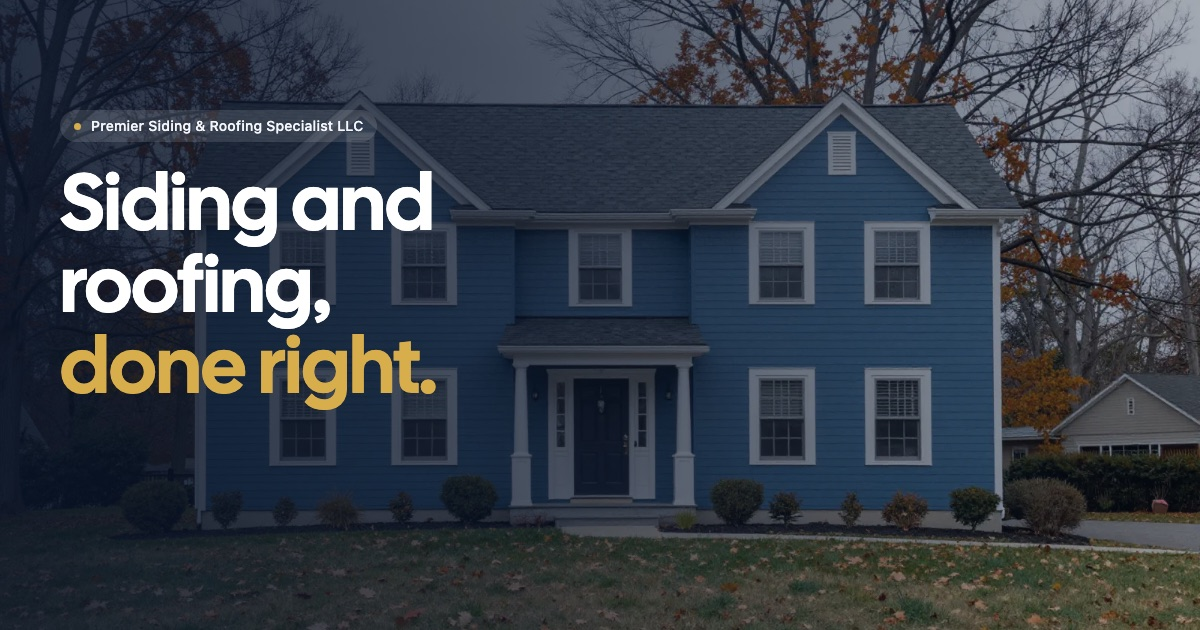
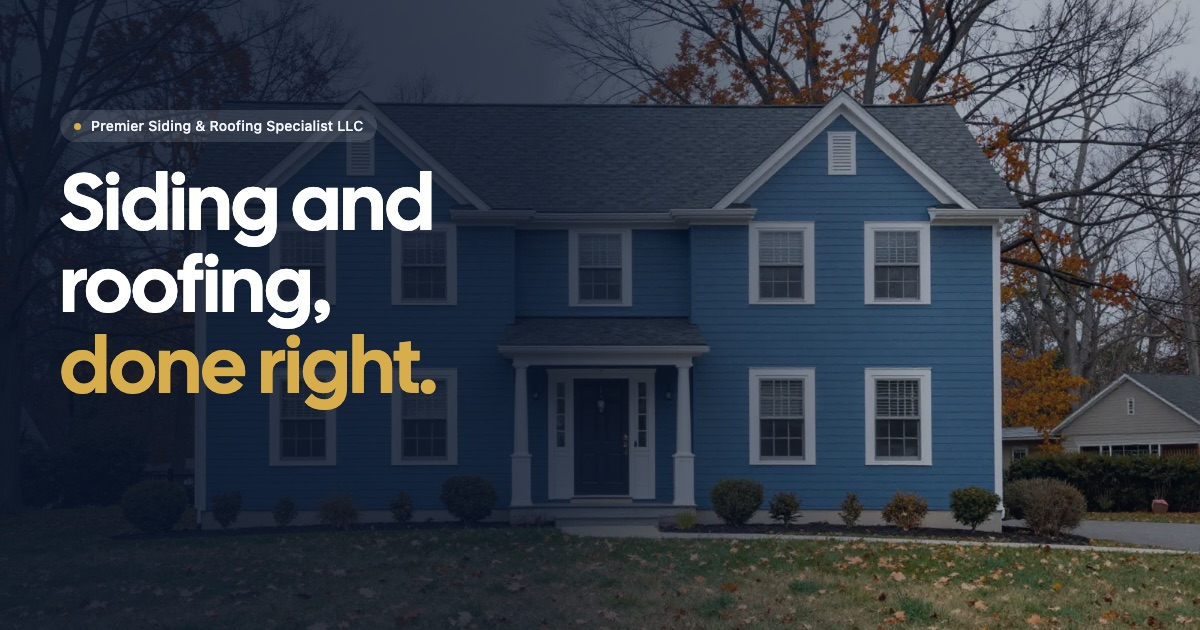
Apply Impeccable sweep and finish-review fixes
Darker hero overlay, sharper photos at 2x, call fallback under the form,
copy-message fallback, honest meta copy, non-seasonal form eyebrow, motto
as the closing heading, landscape hero padding, no-JS float hidden.

Claude-Session: https://claude.ai/code/session_01RV8zrAr6iA1stZByG4rHJ4

diff --git a/index.html b/index.html
@@ -4,11 +4,11 @@
 <meta charset="utf-8">
 <meta name="viewport" content="width=device-width, initial-scale=1, viewport-fit=cover">
 <title>Premier Siding &amp; Roofing Specialist LLC · Siding and roofing, done right</title>
-<meta name="description" content="Siding and roofing from Premier Siding &amp; Roofing Specialist LLC. Our goal is your satisfaction. Call or text (732) 768-5891 for a quote.">
+<meta name="description" content="Siding and roofing from Premier Siding &amp; Roofing Specialist LLC. Our goal is your satisfaction. Call (732) 768-5891 for a quote.">
 <meta name="theme-color" content="#f4f6fb">
 <meta property="og:type" content="website">
 <meta property="og:title" content="Premier Siding &amp; Roofing Specialist LLC · Siding and roofing, done right.">
-<meta property="og:description" content="Our goal is your satisfaction. Call or text (732) 768-5891 for a quote.">
+<meta property="og:description" content="Our goal is your satisfaction. Call (732) 768-5891 for a quote.">
 <meta property="og:url" content="https://10elizabethbell.github.io/premierSidingRoofing/">
 <meta property="og:image" content="https://10elizabethbell.github.io/premierSidingRoofing/og.jpg">
 <meta property="og:image:width" content="1200">
@@ -91,7 +91,7 @@ section{padding:64px 0}
 .brand{display:flex;align-items:center;gap:9px;min-height:44px;text-decoration:none;line-height:1}
 .brand .mark{width:30px;height:30px;flex:none;color:var(--gold-ink)}
 .brand b{display:block;font:400 21px/1 var(--display);letter-spacing:.01em}
-.brand small{display:block;font:600 10px/1.25 var(--text);letter-spacing:.08em;text-transform:uppercase;color:var(--soft);margin-top:4px}
+.brand small{display:block;font:600 11px/1.25 var(--text);letter-spacing:.06em;text-transform:uppercase;color:var(--soft);margin-top:4px}
 .brand small span{display:block}
 .tel{display:inline-flex;align-items:center;gap:7px;min-height:44px;padding:0 2px;font:400 17px/1 var(--display);text-decoration:none;white-space:nowrap}
 .tel svg{width:17px;height:17px;flex:none;color:var(--gold-ink)}
@@ -100,7 +100,7 @@ section{padding:64px 0}
 .hero{padding:0;position:relative;background-color:var(--deep);color:var(--on-dark);overflow:hidden;isolation:isolate}
 .hero picture,.hero picture img{position:absolute;inset:0;width:100%;height:100%;z-index:-2}
 .hero picture img{object-fit:cover;object-position:62% 50%}
-.hero::after{content:"";position:absolute;inset:0;z-index:-1;background:linear-gradient(180deg,rgba(9,20,40,.78) 0%,rgba(9,20,40,.62) 45%,rgba(9,20,40,.86) 100%)}
+.hero::after{content:"";position:absolute;inset:0;z-index:-1;background:linear-gradient(180deg,rgba(9,20,40,.8) 0%,rgba(9,20,40,.74) 45%,rgba(9,20,40,.88) 100%)}
 .hero-copy{position:relative;display:grid;gap:20px;justify-items:start;padding-top:56px;padding-bottom:64px}
 .hero h1{color:#fff;font-size:clamp(42px,12vw,80px);line-height:1.02;max-width:11ch}
 /* H1 bounce-in (after lpmr.co.uk): each letter slides in from 50px right with a slight overshoot, 20ms apart */
@@ -124,7 +124,7 @@ section{padding:64px 0}
 .svc-card:focus-visible .arrow{background:var(--gold);color:var(--ink);outline:3px solid var(--gold);outline-offset:3px}
 .row{display:flex;align-items:center;justify-content:space-between;gap:14px;min-height:72px;padding:14px 16px 14px 22px;border-radius:20px;background:var(--card);color:var(--ink);text-decoration:none;font:400 clamp(18px,5vw,20px)/1.2 var(--display)}
 .row:hover,.row:focus-visible{outline:none;background:var(--card);box-shadow:none}
-.row .lbl{display:flex;align-items:center;gap:14px}
+.row .lbl{display:flex;align-items:center;gap:14px;text-wrap:pretty}
 .row .lbl svg{width:28px;height:28px;flex:none;color:#1877f2}
 .row:focus-visible .arrow{background:var(--gold);outline:3px solid var(--focus);outline-offset:3px}
 .rows{display:grid;gap:12px;margin-top:16px}
@@ -152,19 +152,22 @@ input[type=text]:focus,textarea:focus{outline:none;border-color:var(--focus)}
 .chips label{display:inline-flex;align-items:center;min-height:48px;padding:0 18px;border-radius:var(--pill);background:var(--field);border:2px solid transparent;font:16px/1 var(--text);color:var(--ink);cursor:pointer;margin:0;transition:border-color .15s,background-color .15s,color .15s}
 .chips input:focus-visible+label{border-color:var(--focus);outline:3px solid var(--focus);outline-offset:2px}
 .chips input:checked+label{background:var(--ink);color:#fff}
+#quoteForm:has(#f-what.bad) .chips label{border-color:rgba(179,38,30,.45)}
 .err{display:none;font-size:15px;color:var(--error)}
 .field.bad .err{display:block}
 .field.bad input[type=text],.field.bad textarea,.field.bad input[type=text]:focus,.field.bad textarea:focus{border-color:var(--error)}
 form .btn-primary{width:100%}
 form .btn-primary:focus-visible{outline:3px solid var(--focus);outline-offset:3px}
 .after{font-size:15px;color:var(--soft)}
+.after a{color:var(--ink);white-space:nowrap;display:inline-block;padding:11px 0;margin:-11px 0}
 .sent{color:var(--ink);font-weight:600}
-.sent a{white-space:nowrap;display:inline-block;padding:11px 0;margin:-11px 0}
+.sent a,.linkbtn{white-space:nowrap;display:inline-block;padding:11px 0;margin:-11px 0}
+.linkbtn{font:inherit;color:inherit;background:none;border:0;text-decoration:underline;cursor:pointer}
 @media (max-width:380px){.chips label{padding:0 14px}}
 
 /* ---------- Close ---------- */
 .close h2{font-size:clamp(28px,7vw,44px);max-width:16ch}
-.close .who{margin-top:14px;font:400 clamp(20px,5.4vw,24px)/1.3 var(--display);color:var(--gold)}
+.close .who{margin-top:14px;text-wrap:balance;font:400 clamp(20px,5.4vw,24px)/1.3 var(--display);color:var(--on-dark)}
 .bigtel{display:inline-flex;align-items:center;gap:12px;margin-top:28px;font:400 clamp(30px,9vw,52px)/1 var(--display);text-decoration:none;color:var(--on-dark);min-height:56px;white-space:nowrap}
 .bigtel svg{width:.8em;height:.8em;flex:none;color:var(--gold)}
 .close .note{margin-top:18px;max-width:40ch}
@@ -179,6 +182,7 @@ footer a{display:inline-flex;align-items:center;min-height:44px;color:var(--on-d
 /* ---------- Floating text circle (one circle, never a bottom bar) ---------- */
 .float{position:fixed;z-index:15;right:calc(16px + env(safe-area-inset-right));bottom:calc(16px + env(safe-area-inset-bottom));width:60px;height:60px;border-radius:50%;display:grid;place-items:center;background:var(--gold);color:var(--ink);box-shadow:0 10px 28px rgba(8,18,36,.32);transform:translateY(120px);transition:transform .35s cubic-bezier(.2,.8,.2,1)}
 .float.on{transform:none}
+html:not(.js) .float{display:none}
 .float svg{width:26px;height:26px}
 .float:focus-visible{outline:3px solid var(--focus);outline-offset:3px;border-radius:50%}
 
@@ -188,7 +192,8 @@ footer a{display:inline-flex;align-items:center;min-height:44px;color:var(--on-d
 
 /* ---------- Desktop ---------- */
 @media (max-width:374px){
-  .brand .mark{display:none}
+  .brand .mark{width:24px;height:24px}
+  .brand{gap:7px}
   .tel{font-size:16px}
 }
 @media (min-width:760px){
@@ -202,12 +207,16 @@ footer a{display:inline-flex;align-items:center;min-height:44px;color:var(--on-d
   section{padding:96px 0}
   .hero-copy{padding-top:120px;padding-bottom:136px}
   .hero picture img{object-position:50% 45%}
-  .hero::after{background:linear-gradient(90deg,rgba(9,20,40,.88) 0%,rgba(9,20,40,.7) 45%,rgba(9,20,40,.35) 100%)}
+  .hero::after{background:linear-gradient(90deg,rgba(9,20,40,.9) 0%,rgba(9,20,40,.8) 45%,rgba(9,20,40,.35) 78%)}
   .actions{grid-auto-flow:column;justify-content:start;width:auto}
   .actions .btn{min-width:220px}
   .svc{grid-template-columns:1fr 1fr;gap:20px}
   .svc-card{aspect-ratio:5/4}
   .rows{grid-template-columns:1fr 1fr;gap:20px}
+}
+@media (min-width:760px) and (max-height:500px){
+  .hero-copy{padding-top:40px;padding-bottom:48px}
+  .hero h1{font-size:52px}
 }
 @media (min-width:1024px){
   .ask .wrap{grid-template-columns:1fr 1.2fr;gap:64px;align-items:start}
@@ -266,7 +275,7 @@ FINISH: unreviewed and undocumented is unfinished; this build ends with the fini
 <section class="hero" id="hero" aria-labelledby="h1">
   <picture>
     <source media="(min-width:760px)" srcset="img/hero-wide.webp">
-    <img src="img/hero-phone.webp" alt="" width="720" height="896" fetchpriority="high">
+    <img src="img/hero-phone.webp" alt="" width="874" height="1088" fetchpriority="high">
   </picture>
   <div class="wrap hero-copy">
     <span class="eyebrow">Get it done before winter</span>
@@ -283,15 +292,15 @@ FINISH: unreviewed and undocumented is unfinished; this build ends with the fini
   <div class="wrap">
     <div class="head rise">
       <span class="eyebrow">What we do</span>
-      <h2 id="h-svc">The outside of your house, <span class="accent">covered.</span></h2>
+      <h2 id="h-svc">The outside of your house, covered.</h2>
     </div>
     <div class="svc">
       <a class="svc-card rise" href="#ask" data-service="Siding">
-        <img src="img/siding.webp" alt="" width="720" height="900" loading="lazy" decoding="async">
+        <img src="img/siding.webp" srcset="img/siding.webp 720w, img/siding-1024.webp 1024w" sizes="(min-width:760px) 50vw, 100vw" alt="" width="720" height="900" loading="lazy" decoding="async">
         <div class="svc-meta"><h3>Siding</h3><span class="arrow" aria-hidden="true"><svg><use href="#i-arrow"/></svg></span></div>
       </a>
       <a class="svc-card rise" href="#ask" data-service="Roofing">
-        <img src="img/roofing.webp" alt="" width="720" height="900" loading="lazy" decoding="async">
+        <img src="img/roofing.webp" srcset="img/roofing.webp 720w, img/roofing-1024.webp 1024w" sizes="(min-width:760px) 50vw, 100vw" alt="" width="720" height="900" loading="lazy" decoding="async">
         <div class="svc-meta"><h3>Roofing</h3><span class="arrow" aria-hidden="true"><svg><use href="#i-arrow"/></svg></span></div>
       </a>
     </div>
@@ -322,9 +331,9 @@ FINISH: unreviewed and undocumented is unfinished; this build ends with the fini
 <section class="on-paper ask" id="ask" aria-labelledby="h-ask">
   <div class="wrap">
     <div class="head rise">
-      <span class="eyebrow">Before the cold sets in</span>
+      <span class="eyebrow">Ask for a quote</span>
       <h2 id="h-ask">Tell us about your house</h2>
-      <p class="lede">A few loose shingles or a whole new roof, ask us.</p>
+      <p class="lede">Siding, roofing, or not sure yet: tell us what you're seeing.</p>
     </div>
     <form id="quoteForm" class="rise" novalidate>
       <fieldset class="field">
@@ -351,8 +360,8 @@ FINISH: unreviewed and undocumented is unfinished; this build ends with the fini
         <input type="text" id="where" name="where" autocomplete="address-level2" maxlength="60">
       </div>
       <button class="btn btn-primary" type="submit"><svg aria-hidden="true"><use href="#i-chat"/></svg>Text this to us</button>
-      <p class="sent" id="sent" role="status" hidden>Didn't open your messages? <a id="openSms" href="sms:+17327685891">Open in Messages</a> or call us at <a href="tel:+17327685891">(732) 768-5891</a>.</p>
-      <p class="after">Opens your messages with this written out.</p>
+      <p class="sent" id="sent" role="status" hidden>Didn't open your messages? <a id="openSms" href="sms:+17327685891">Open in Messages</a>, <button type="button" class="linkbtn" id="copyMsg">copy the message</button> or call us at <a href="tel:+17327685891">(732) 768-5891</a>.</p>
+      <p class="after">Opens your messages with this written out. Rather talk? Call <a href="tel:+17327685891">(732) 768-5891</a>.</p>
     </form>
   </div>
 </section>
@@ -360,9 +369,9 @@ FINISH: unreviewed and undocumented is unfinished; this build ends with the fini
 <section class="on-navy close" id="close" aria-labelledby="h-close">
   <div class="wrap">
     <div class="rise">
-      <h2 id="h-close">Premier Siding &amp; Roofing Specialist LLC</h2>
-      <p class="who">&ldquo;Our goal is your satisfaction!!&rdquo;</p>
-      <p class="note">Siding or roofing, big job or small: call or text us for a quote.</p>
+      <h2 id="h-close">&ldquo;Our goal is your <span class="accent">satisfaction!!&rdquo;</span></h2>
+      <p class="who">Premier Siding &amp; Roofing Specialist LLC</p>
+      <p class="note">Call or text us for a quote.</p>
     </div>
     <a class="bigtel rise" href="tel:+17327685891"><svg aria-hidden="true"><use href="#i-phone"/></svg>(732) 768-5891</a>
   </div>
@@ -419,7 +428,7 @@ document.documentElement.classList.add('js');
   [].forEach.call(document.querySelectorAll('[data-service]'),function(a){
     a.addEventListener('click',function(){
       var r=document.querySelector('input[name=job][value="'+a.getAttribute('data-service')+'"]');
-      if(r)r.checked=true;
+      if(r){r.checked=true;r.dispatchEvent(new Event('change',{bubbles:true}))}
     });
   });
 })();
@@ -429,8 +438,12 @@ document.documentElement.classList.add('js');
   var form=document.getElementById('quoteForm');if(!form)return;
   function val(id){return document.getElementById(id).value.trim()}
   function mark(id,bad){var f=document.getElementById(id);f.classList.toggle('bad',bad);f.querySelector('input,textarea').setAttribute('aria-invalid',bad?'true':'false')}
-  form.addEventListener('input',function(e){var f=e.target.closest('.field');if(f&&f.classList.contains('bad')&&e.target.value.trim())f.classList.remove('bad')});
-  form.addEventListener('change',function(e){if(e.target.name==='job')mark('f-what',false)});
+  form.addEventListener('input',function(e){var f=e.target.closest('.field');if(f&&f.classList.contains('bad')&&e.target.value.trim()){f.classList.remove('bad');e.target.setAttribute('aria-invalid','false')}});
+  var submit=form.querySelector('button[type=submit]'),lastMsg='';
+  // clipboard can be blocked in in-app browsers, so this is a convenience next to Open in Messages and the number
+  document.getElementById('copyMsg').addEventListener('click',function(){var b=this;if(navigator.clipboard)navigator.clipboard.writeText(lastMsg).then(function(){b.textContent='copied'},function(){})});
+  // the button names the job once one is picked
+  form.addEventListener('change',function(e){if(e.target.name!=='job')return;mark('f-what',false);submit.lastChild.textContent=e.target.value==='Not sure'?'Text this to us':'Text us about '+e.target.value.toLowerCase()});
   form.addEventListener('submit',function(e){
     e.preventDefault();
     var name=val('name'),what=val('what'),where=val('where'),job=form.querySelector('input[name=job]:checked');
@@ -441,11 +454,12 @@ document.documentElement.classList.add('js');
     if(job)msg+=' I need a quote for: '+job.value+'.';
     if(what)msg+=' '+what.replace(/[.!?]*$/,'.');
     if(where)msg+=' Town: '+where+'.';
+    lastMsg=msg;
     var url='sms:'+CONFIG.PHONE+'?&body='+encodeURIComponent(msg);
     document.getElementById('openSms').href=url;
     location.href=url;
     // if no messages app opened (desktop, some in-app browsers), say what to do instead
-    setTimeout(function(){document.getElementById('sent').hidden=false},900);
+    setTimeout(function(){document.getElementById('sent').hidden=false;form.querySelector('.after').hidden=true},900);
   });
 })();
 
